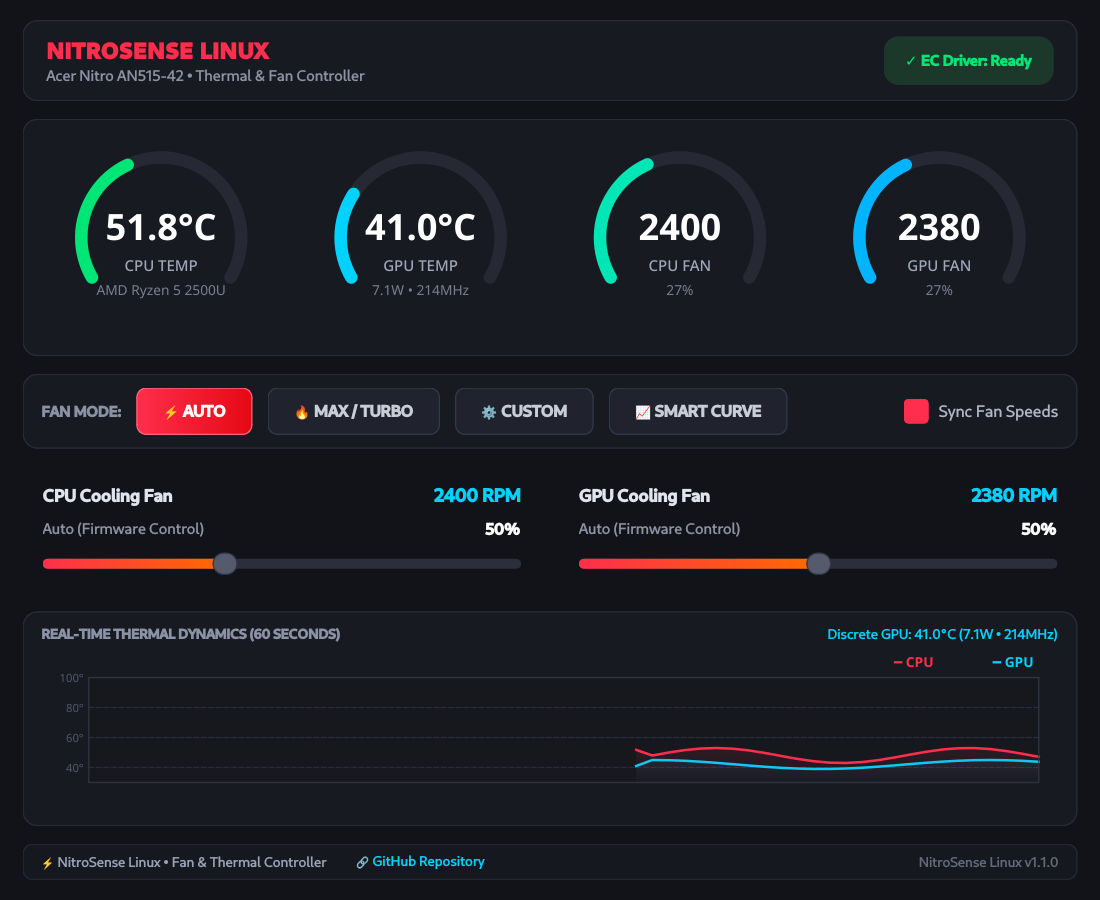
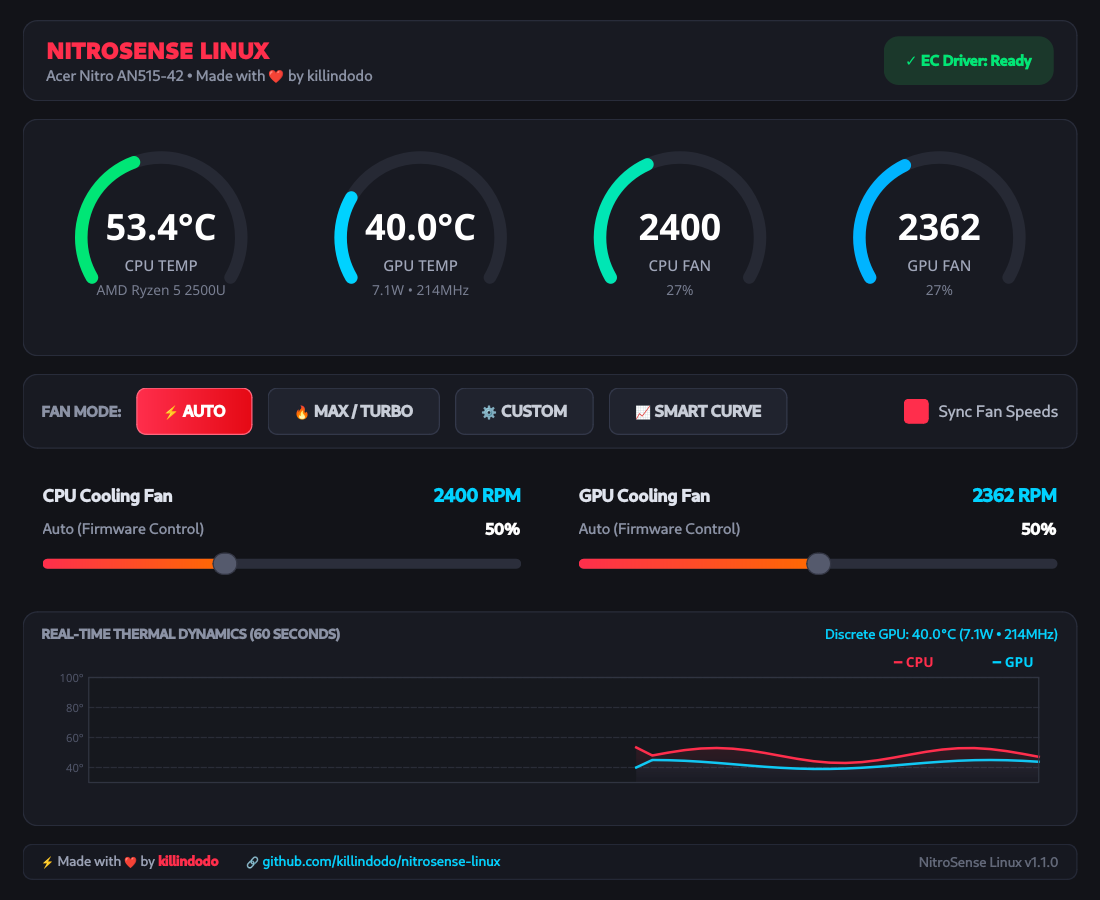
Made by killindodo with love: branding and visual previews

diff --git a/ui/main_window.py b/ui/main_window.py
@@ -40,7 +40,7 @@ class NitroSenseWindow(QMainWindow):
         self.update_sensors()
 
     def _init_window(self):
-        self.setWindowTitle(f"NitroSense - {self.monitor.system_model} Fan & Thermal Controller")
+        self.setWindowTitle(f"NitroSense - {self.monitor.system_model} • Made by killindodo")
         self.resize(880, 720)
         self.setMinimumSize(780, 600)
         if os.path.exists(self.icon_path):
@@ -149,7 +149,7 @@ class NitroSenseWindow(QMainWindow):
         lbl_brand = QLabel("NITROSENSE LINUX")
         lbl_brand.setStyleSheet("color: #ff2e4c; font-size: 18px; font-weight: 900; letter-spacing: 1px;")
 
-        lbl_device = QLabel(f"{self.monitor.system_model} • Thermal & Fan Controller")
+        lbl_device = QLabel(f"{self.monitor.system_model} • Made with ❤ by killindodo")
         lbl_device.setStyleSheet("color: #8b92a5; font-size: 12px;")
         title_box.addWidget(lbl_brand)
         title_box.addWidget(lbl_device)
@@ -302,10 +302,10 @@ class NitroSenseWindow(QMainWindow):
         ftr_layout = QHBoxLayout(footer)
         ftr_layout.setContentsMargins(14, 6, 14, 6)
 
-        lbl_author = QLabel("⚡ NitroSense Linux • Fan & Thermal Controller")
+        lbl_author = QLabel("⚡ Made with ❤ by <b style='color: #ff2e4c;'>killindodo</b>")
         lbl_author.setStyleSheet("color: #9aa1b5; font-size: 11px;")
 
-        lbl_repo = QLabel("<a href='https://github.com/killindodo/nitrosense-linux' style='color: #00d2ff; text-decoration: none;'>🔗 GitHub Repository</a>")
+        lbl_repo = QLabel("<a href='https://github.com/killindodo/nitrosense-linux' style='color: #00d2ff; text-decoration: none;'>🔗 github.com/killindodo/nitrosense-linux</a>")
         lbl_repo.setOpenExternalLinks(True)
         lbl_repo.setStyleSheet("font-size: 11px;")
 

diff --git a/ui/mini_control.py b/ui/mini_control.py
@@ -184,7 +184,7 @@ class MiniControlDropdown(QWidget):
         title_vbox.setSpacing(0)
         self.lbl_title = QLabel("NITROSENSE")
         self.lbl_title.setStyleSheet("color: #ffffff; font-size: 12px; font-weight: 900; letter-spacing: 0.5px;")
-        self.lbl_sub = QLabel(self.system_model)
+        self.lbl_sub = QLabel(f"{self.system_model} • by killindodo")
         self.lbl_sub.setStyleSheet("color: #8a90a2; font-size: 10px;")
         title_vbox.addWidget(self.lbl_title)
         title_vbox.addWidget(self.lbl_sub)

diff --git a/ui/tray_icon.py b/ui/tray_icon.py
@@ -92,7 +92,7 @@ class NitroTrayIcon(QSystemTrayIcon):
         menu.addAction(self.act_manual)
 
         menu.addSeparator()
-        self.act_repo = QAction("🔗 GitHub Repository", self)
+        self.act_repo = QAction("🔗 GitHub: killindodo/nitrosense-linux", self)
         self.act_repo.triggered.connect(
             lambda: QDesktopServices.openUrl(QUrl("https://github.com/killindodo/nitrosense-linux"))
         )

diff --git a/nitro_sense.py b/nitro_sense.py
@@ -1,9 +1,11 @@
 #!/usr/bin/env python3
 """
 NitroSense Linux - Advanced Fan & Thermal Controller for Acer Nitro Laptops
+Developer: killindodo (https://github.com/killindodo)
 Repository: https://github.com/killindodo/nitrosense-linux
 """
 
+__author__ = "killindodo"
 __version__ = "1.1.0"
 __github__ = "https://github.com/killindodo/nitrosense-linux"
 

diff --git a/README.md b/README.md
@@ -2,6 +2,9 @@
 
 A dedicated, native Linux GUI and Embedded Controller (EC) fan driver for **Acer Nitro laptops**.
 
+**Developer**: [killindodo](https://github.com/killindodo)  
+**Repository**: [https://github.com/killindodo/nitrosense-linux](https://github.com/killindodo/nitrosense-linux)
+
 ![NitroSense Linux](assets/icon.png)
 
 ---
@@ -127,6 +130,14 @@ nitrosense --tray
 - **Click the top status bar widget** to open the **Mini Control Dropdown**.
 - **Double-click** or click **Dashboard** in the dropdown to expand the full dashboard.
 - **Right-click** for quick context menu presets.
+
+---
+
+## Author
+
+Made with ❤ by **[killindodo](https://github.com/killindodo)**  
+- GitHub: [@killindodo](https://github.com/killindodo)  
+- Repository: [https://github.com/killindodo/nitrosense-linux](https://github.com/killindodo/nitrosense-linux)
 
 ---
 
